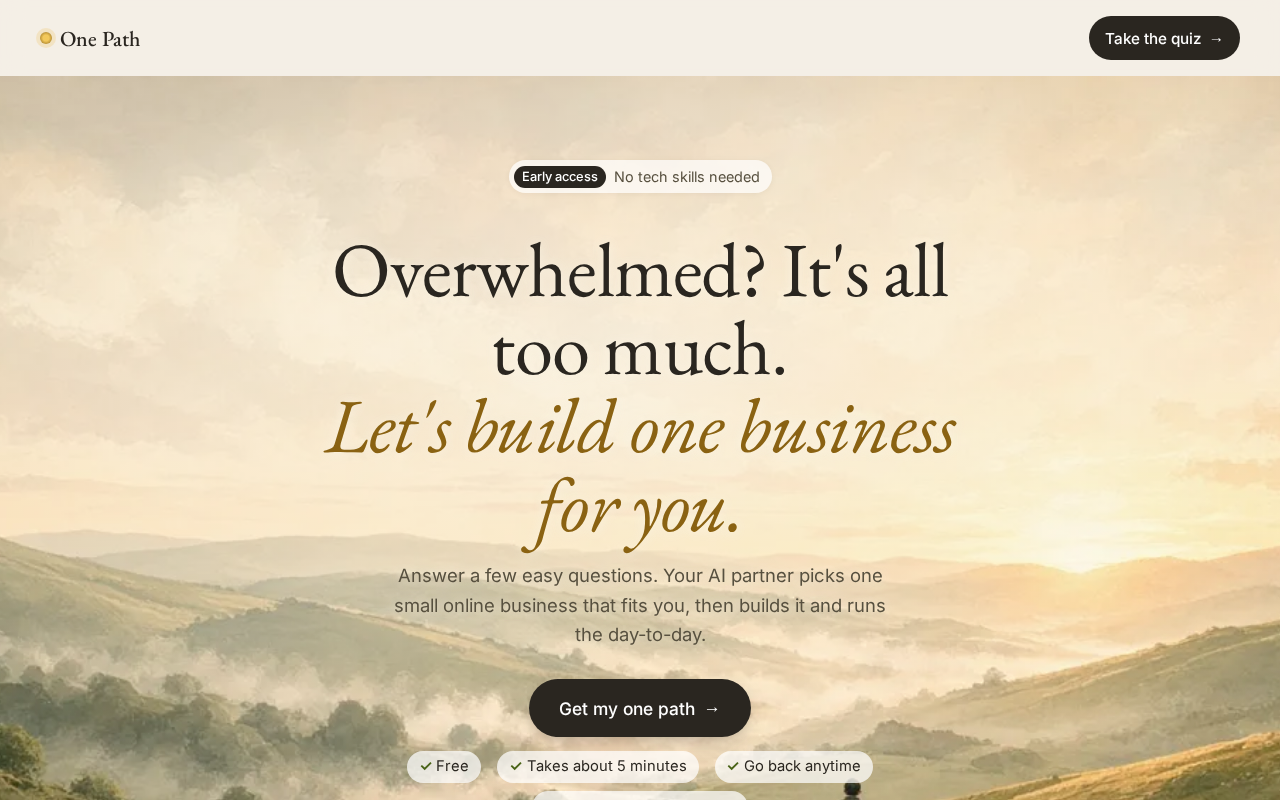
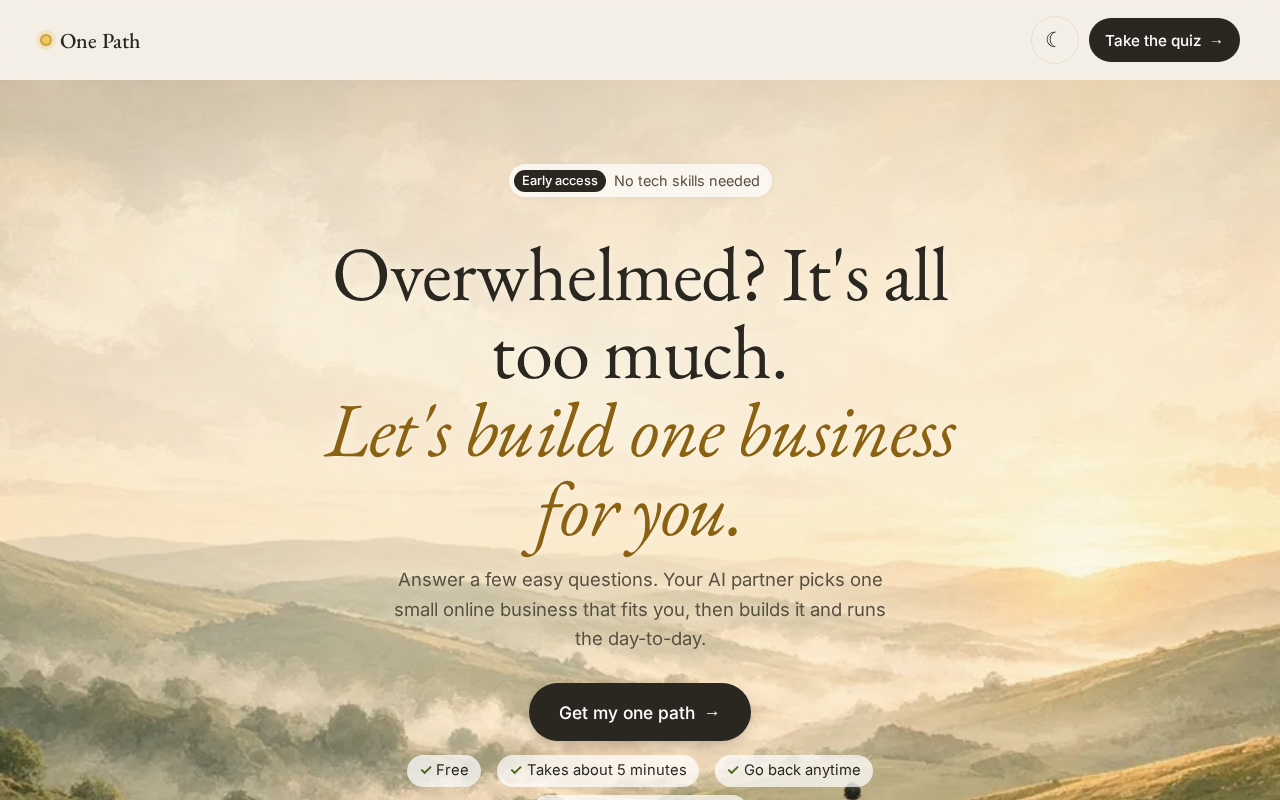
Night mode with starry hero, theme toggle

diff --git a/index.html b/index.html
@@ -4,14 +4,16 @@
 <title>One Path: stop browsing side hustles. Pick one.</title>
 <meta name="description" content="Too many ways to make money online? Take a 6-question quiz, get ONE path, then an AI CEO builds it and tells you what to do each week.">
 <link rel="preconnect" href="https://fonts.googleapis.com"><link rel="stylesheet" href="https://fonts.googleapis.com/css2?family=EB+Garamond:ital,wght@0,400;0,500;1,400&family=Inter:wght@400;500;600&display=swap">
+<script>(function(){try{var t=localStorage.getItem("op-theme")}catch(e){}if(!t)t=matchMedia("(prefers-color-scheme: dark)").matches?"dark":"light";document.documentElement.dataset.theme=t})()</script>
+<meta name="color-scheme" content="light dark">
 <link rel="preload" as="image" href="img/hero-tall.webp" media="(max-width:759px)"><link rel="preload" as="image" href="img/hero-wide.webp" media="(min-width:760px)">
 <link rel="stylesheet" href="style.css">
 <!-- GoatCounter: page visits + events. Replace "onepath" with your GoatCounter code. -->
 <script data-goatcounter="https://onepath.goatcounter.com/count" async src="https://gc.zgo.at/count.js"></script>
 </head><body>
-<header class="top"><span class="logo"><i></i>One Path</span><a href="#quiz" class="pill">Take the quiz <span>→</span></a></header>
+<header class="top"><span class="logo"><i></i>One Path</span><span class="tr"><button type="button" id="theme" class="themebtn" aria-label="Switch to dark mode"><span class="moon" aria-hidden="true">☾</span><span class="sun" aria-hidden="true">☀</span></button><a href="#quiz" class="pill">Take the quiz <span>→</span></a></span></header>
 <main>
-<section class="hero"><picture class="heroimg" aria-hidden="true"><source media="(max-width:759px)" srcset="img/hero-tall.webp"><img src="img/hero-wide.webp" alt="" fetchpriority="high"></picture><div class="wrap fade">
+<section class="hero"><picture class="heroimg day" aria-hidden="true"><source media="(max-width:759px)" srcset="img/hero-tall.webp"><img src="img/hero-wide.webp" alt="" fetchpriority="high"></picture><picture class="heroimg night" aria-hidden="true"><source media="(max-width:759px)" srcset="img/hero-night-tall.webp"><img src="img/hero-night-wide.webp" alt="" loading="lazy"></picture><div class="wrap fade">
   <p class="tag"><b>Early access</b> No tech skills needed</p>
   <h1>Overwhelmed? It's all too much.<br><em>Let's build one business for you.</em></h1>
   <p class="sub">Answer a few easy questions. Your AI partner picks one small online business that fits you, then builds it and runs the day-to-day.</p>
@@ -45,4 +47,5 @@
 </main>
 <footer class="wrap"><p class="logo"><i></i>One Path</p><p><b>Honest note:</b> One Path picks one business direction for you and has an AI build and run the day-to-day, with your approval. We make no promises about income or results, and an AI-built business is not guaranteed to earn anything. Most new online projects earn little or nothing for months, and many never do. Results depend on your effort, market, and many factors outside our control. Nothing here is financial advice.</p><p>© 2026 One Path</p></footer>
 <script src="app.js"></script>
+<script>(function(){var b=document.getElementById("theme"),d=document.documentElement;function s(){var k=d.dataset.theme==="dark";b.setAttribute("aria-label",k?"Switch to light mode":"Switch to dark mode");b.setAttribute("aria-pressed",k)}s();b.onclick=function(){d.dataset.theme=d.dataset.theme==="dark"?"light":"dark";try{localStorage.setItem("op-theme",d.dataset.theme)}catch(e){}s()}})()</script>
 </body></html>

diff --git a/style.css b/style.css
@@ -121,3 +121,33 @@ footer{font-size:.9rem}.how p{font-size:1.02rem}
 
 @media(max-width:759px){.hero{min-height:calc(100svh - 72px);padding:28px 0 40vh}.hero h1{margin-bottom:12px}.hero .sub{margin-bottom:18px}.heroimg img{object-position:50% 100%}.hero .reassure{display:none}}
 @media(min-width:760px){.hero{min-height:calc(100vh - 60px);padding:70px 0 34vh}.heroimg img{object-position:50% 100%}}
+
+/* theme toggle */
+.tr{display:flex;gap:10px;align-items:center}
+.themebtn{width:48px;height:48px;border-radius:50%;border:1px solid var(--line);background:transparent;color:var(--ink);font-size:1.3rem;cursor:pointer;display:grid;place-items:center}
+.themebtn:focus-visible,.btn:focus-visible,.pill:focus-visible,.opt:focus-visible{outline:3px solid var(--gold);outline-offset:3px}
+.themebtn .sun,[data-theme=dark] .themebtn .moon{display:none}[data-theme=dark] .themebtn .sun{display:inline}
+.heroimg.night{display:none}
+/* dark */
+[data-theme=dark]{--ink:#F1EADB;--mute:#C3BBAA;--cream:#0E1528;--paper:#151E36;--gold:#E8BE5C;--olive:#B5CF7A;--line:#2C3756;color-scheme:dark}
+[data-theme=dark] .heroimg.day{display:none}[data-theme=dark] .heroimg.night{display:block}
+[data-theme=dark] .hero{background:#0E1528}
+[data-theme=dark] .hero::after{background:radial-gradient(75% 45% at 50% 28%,rgba(10,16,34,.55) 0,rgba(10,16,34,.25) 55%,rgba(10,16,34,0) 100%),linear-gradient(180deg,rgba(14,21,40,0) 78%,#0E1528 100%)}
+[data-theme=dark] .hero h1,[data-theme=dark] .hero .sub{text-shadow:0 2px 14px rgba(5,8,20,.85)}
+[data-theme=dark] .top{background:rgba(14,21,40,.72)}
+[data-theme=dark] .pill,[data-theme=dark] .btn{background:#F1EADB;color:#0E1528}
+[data-theme=dark] .btn.alt{background:transparent;color:var(--ink)}[data-theme=dark] .btn.alt:hover{background:var(--ink);color:#0E1528}
+[data-theme=dark] .tag,[data-theme=dark] .hero .reassure li{background:rgba(14,21,40,.7);color:var(--ink)}
+[data-theme=dark] .tag b{background:var(--gold);color:#0E1528}
+[data-theme=dark] .how div{background:rgba(255,255,255,.04)}
+[data-theme=dark] .opt,[data-theme=dark] input[type=email],[data-theme=dark] .txt,[data-theme=dark] .fit,[data-theme=dark] .money li,[data-theme=dark] .road li{background:#1A2440;border-color:#38446A;color:var(--ink)}
+[data-theme=dark] .opt:hover,[data-theme=dark] .opt.sel{background:#222E50}
+[data-theme=dark] .opt.sel .box{box-shadow:inset 0 0 0 3px #1A2440}
+[data-theme=dark] .note,[data-theme=dark] .warn{background:#1F2A47;color:var(--ink)}
+[data-theme=dark] .ok{background:#1E3320!important;color:#CDE6A0!important}
+[data-theme=dark] .why li,[data-theme=dark] .tick li,[data-theme=dark] .you li{border-color:#2C3756}
+[data-theme=dark] .card{box-shadow:0 30px 60px -40px #000}
+[data-theme=dark] ::placeholder{color:#9A93A8}
+[data-theme=dark] #result p{color:#D9D1C1}
+[data-theme=dark] .box{border-color:#8E97B5}
+[data-theme=dark] .opt{border-color:#38446A}
